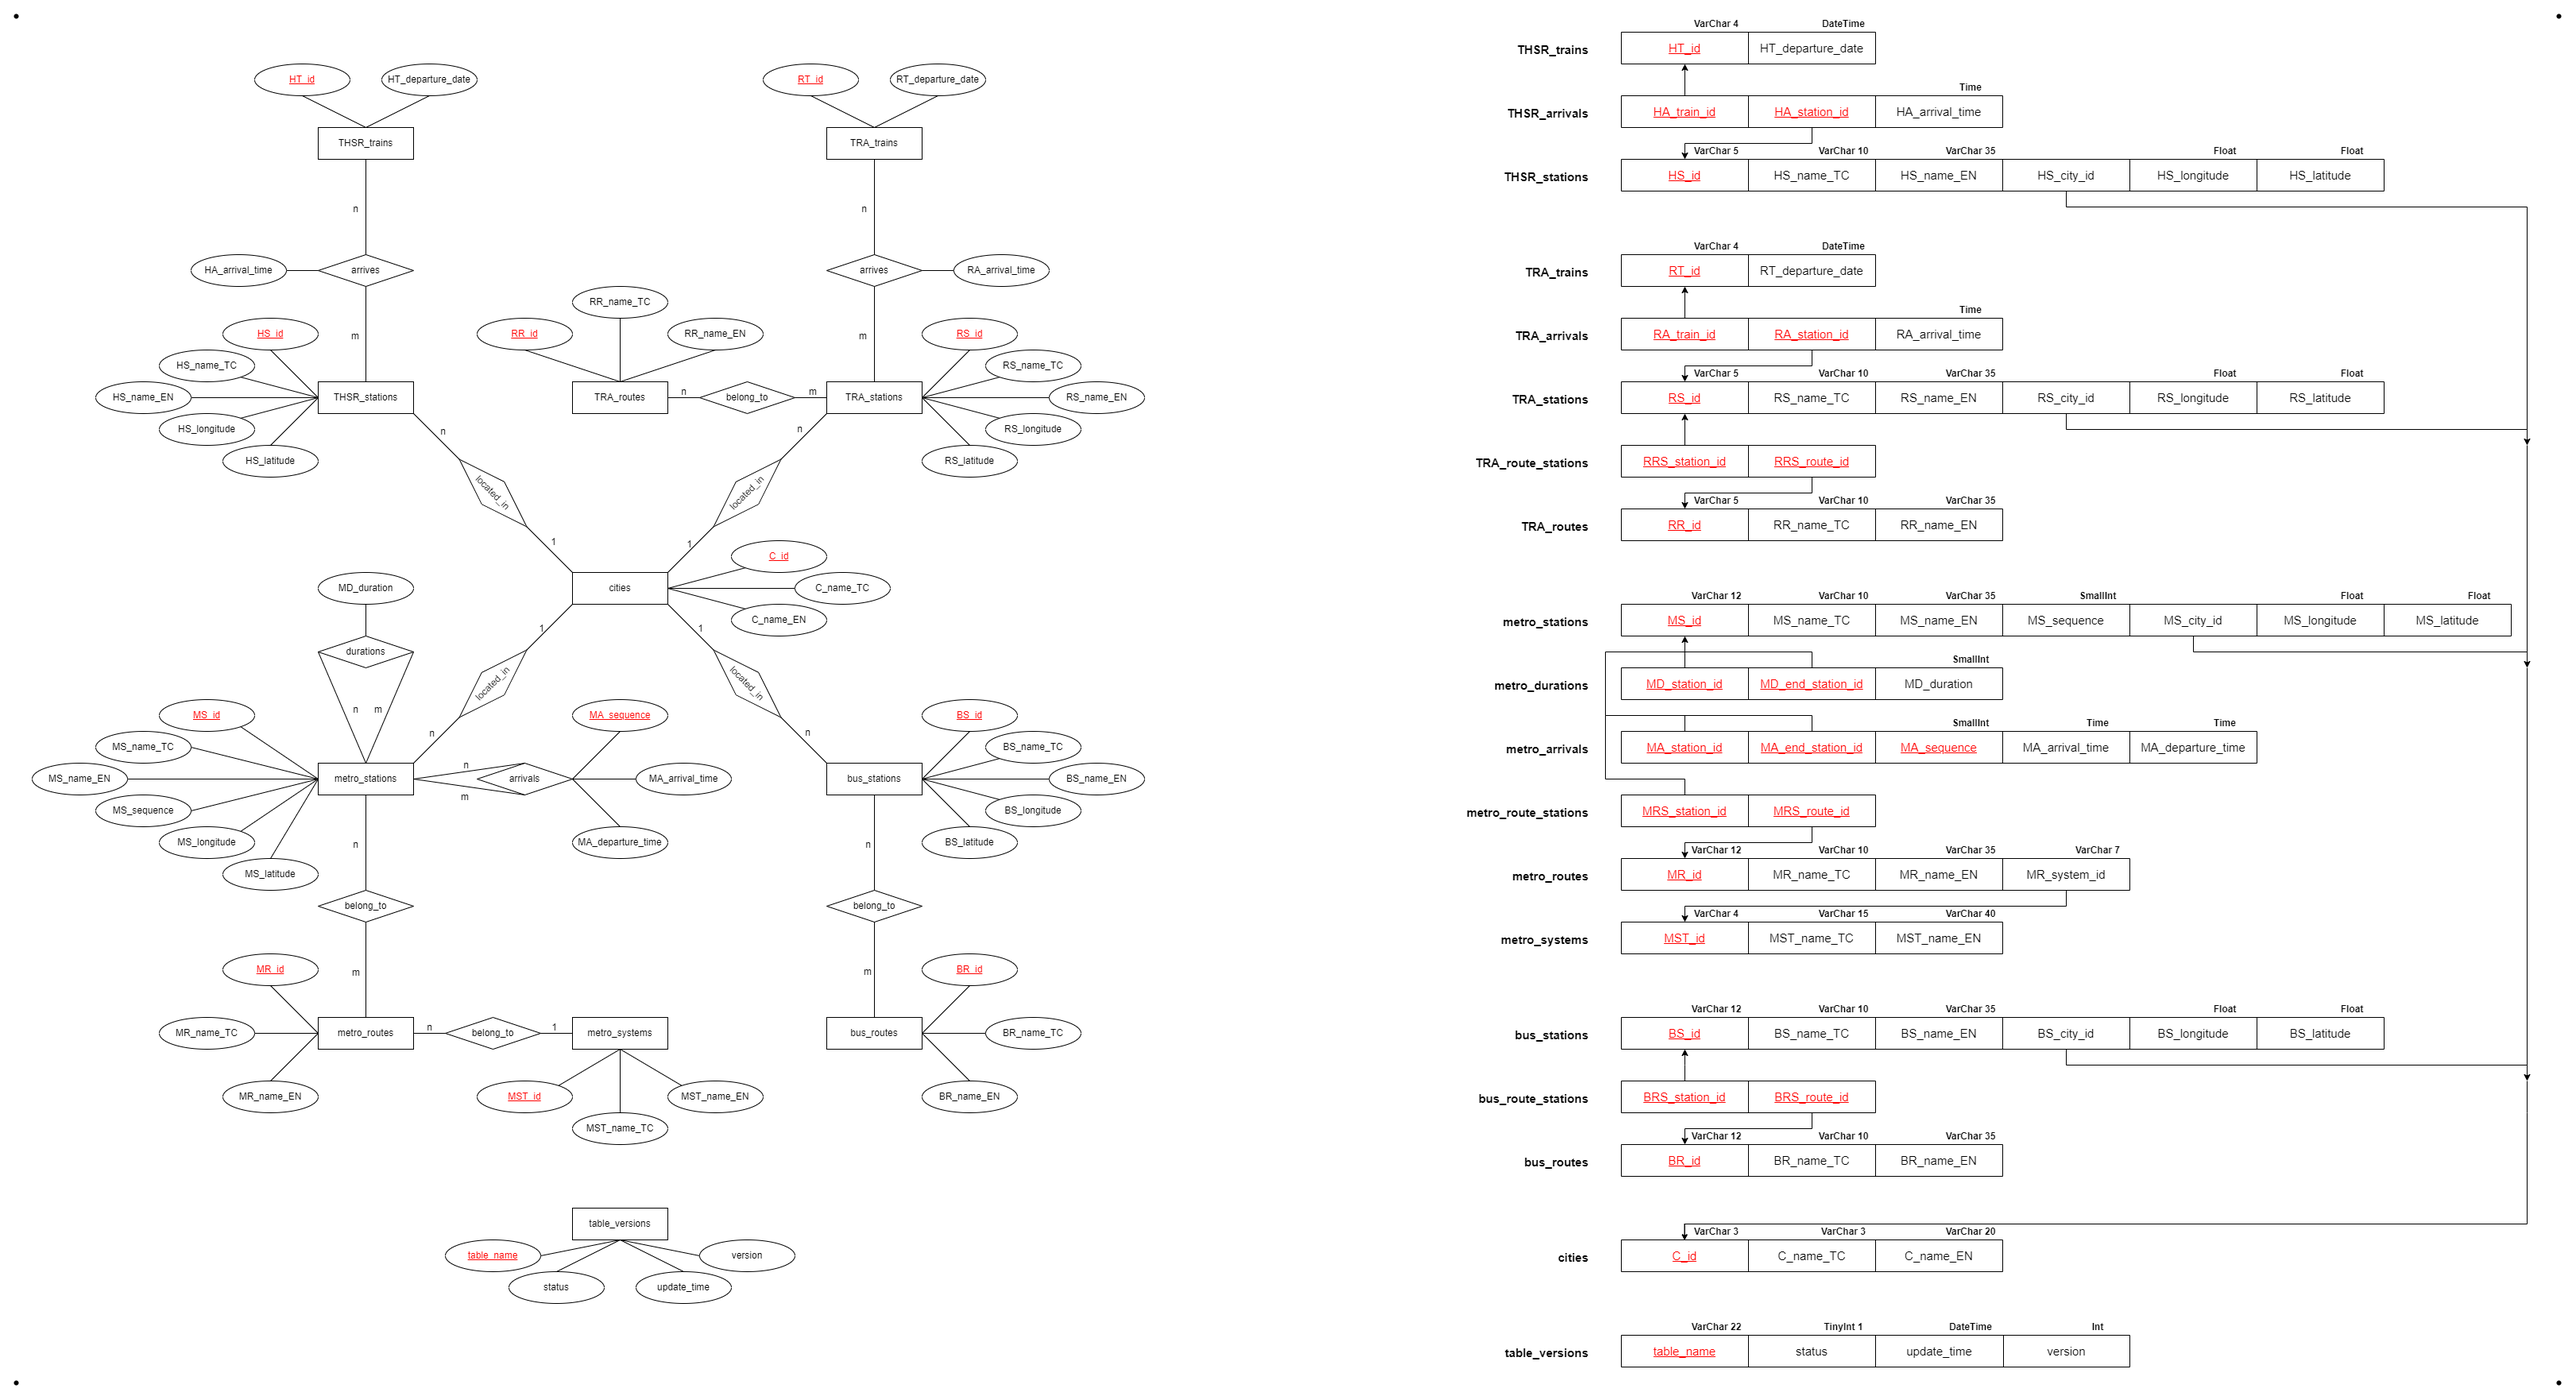
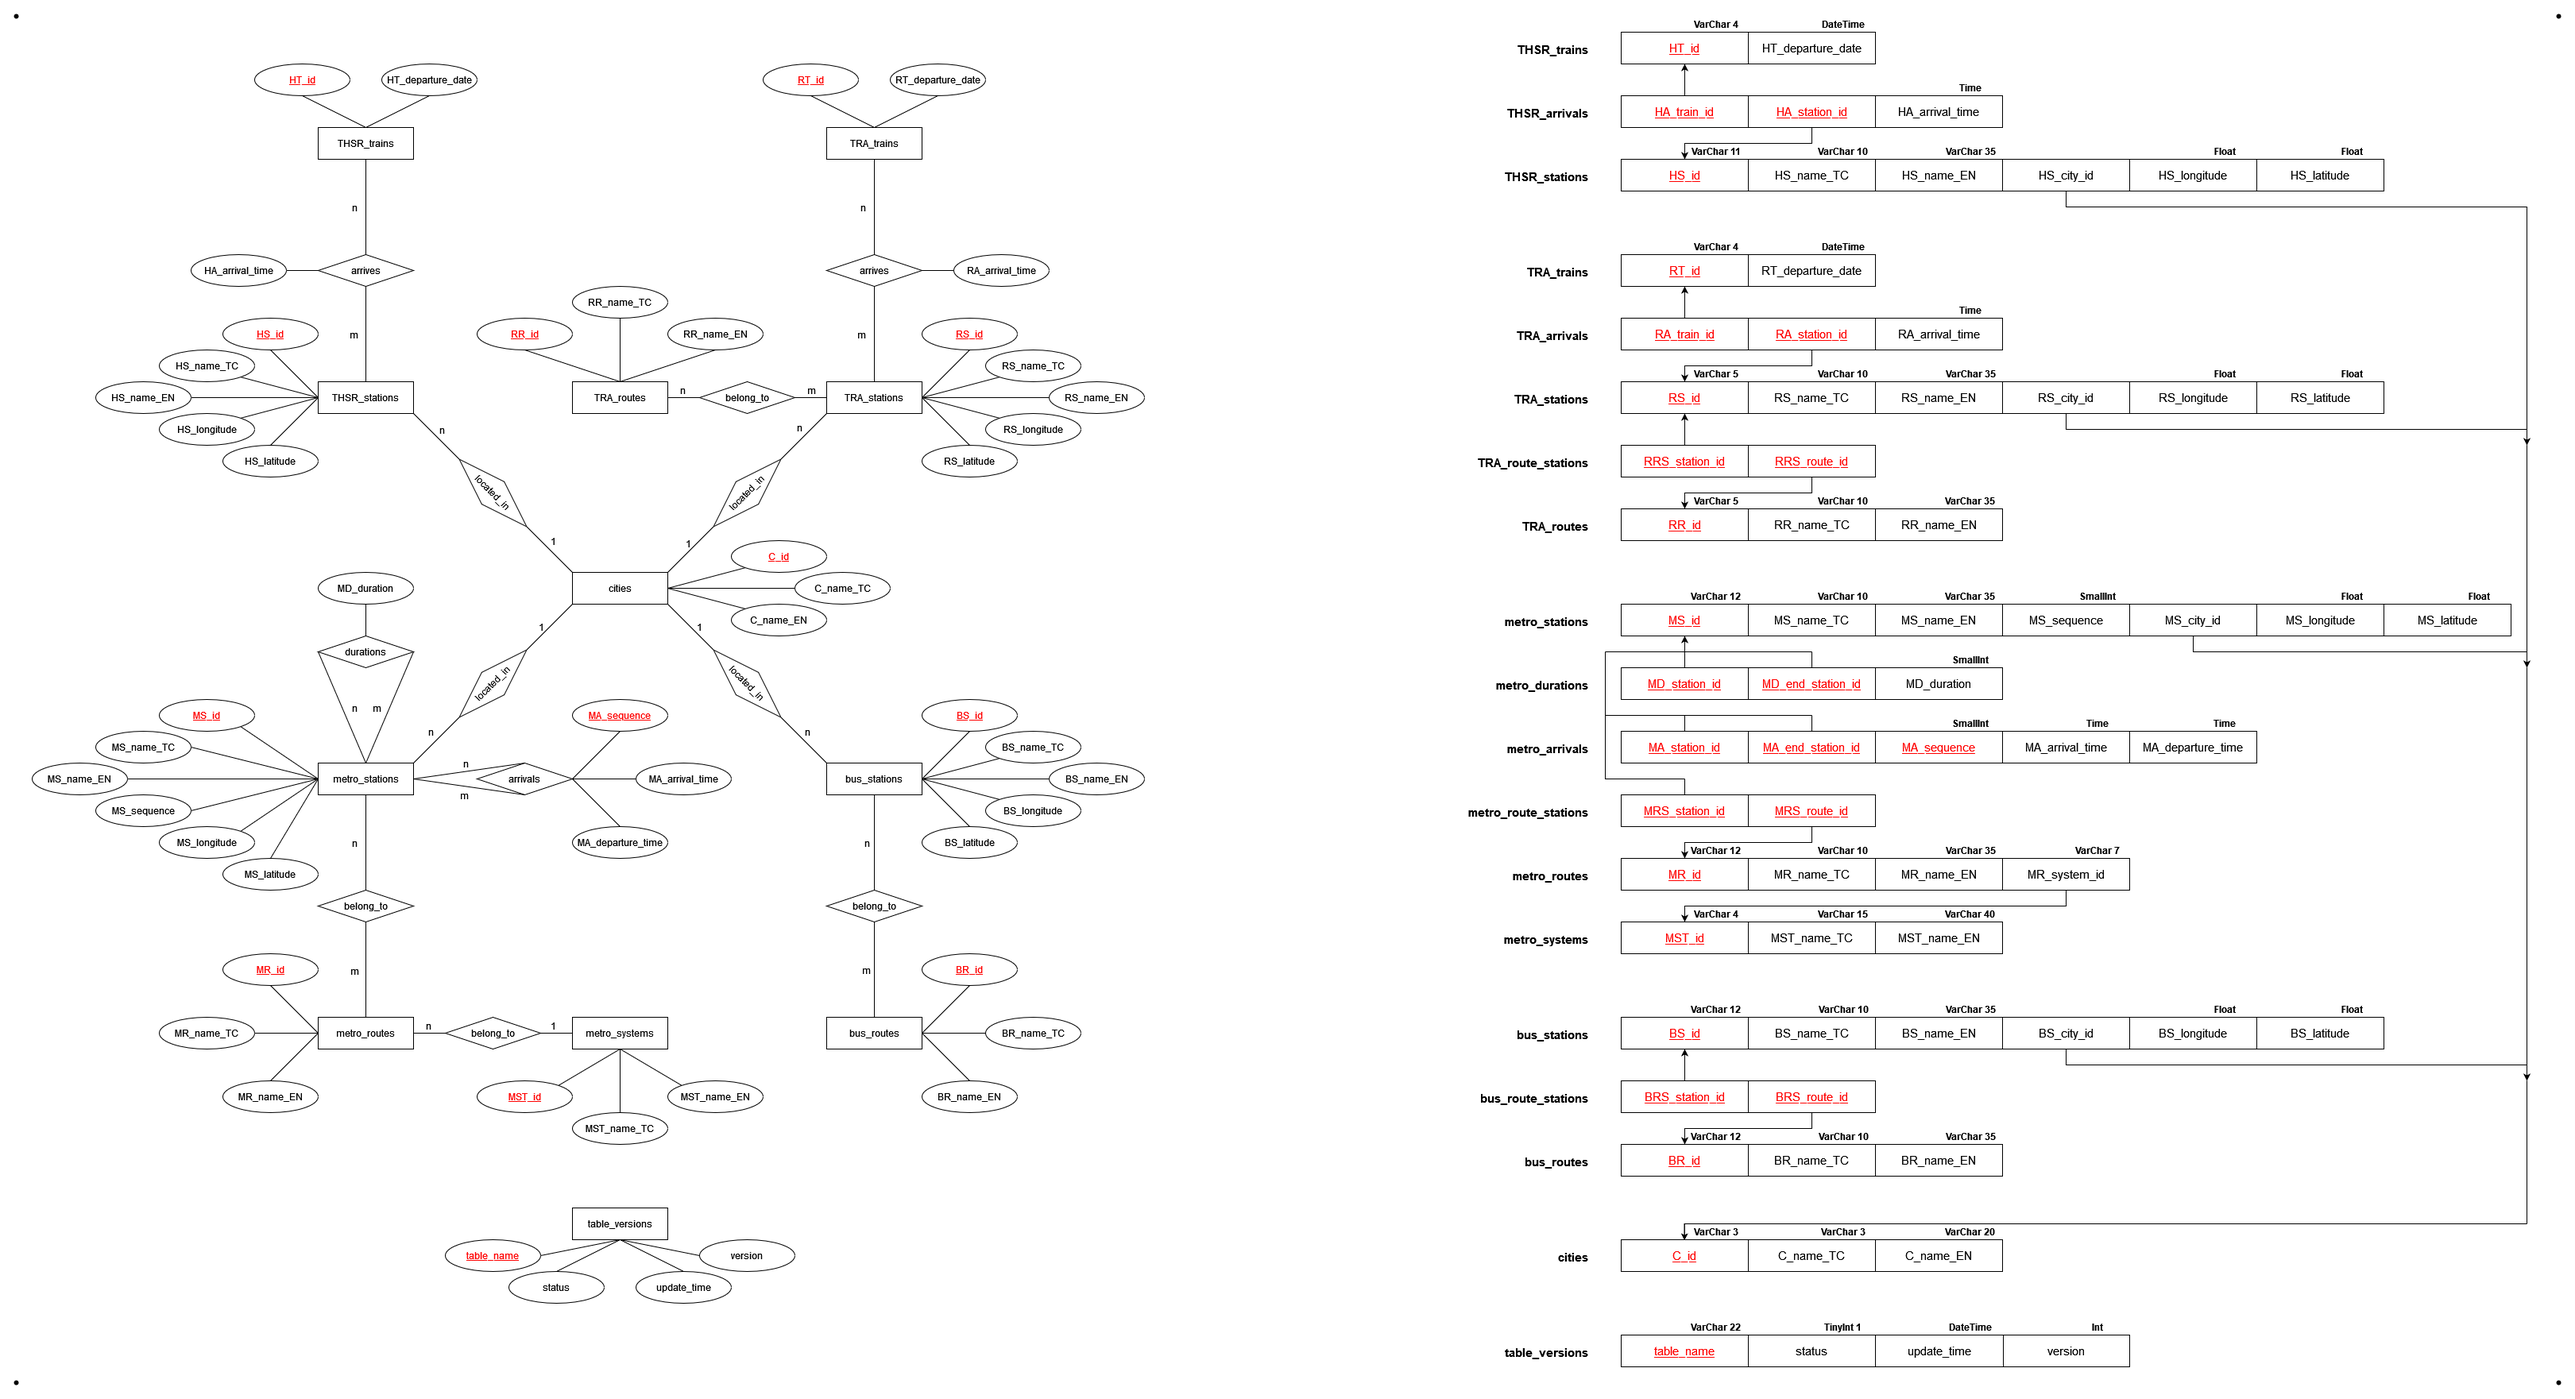
已在 Migration 及 ERM 修正 HS_id 的長度為 11。

diff --git a/app/Database/Migrations/2022-09-09-123929_RelengthHSID.php b/app/Database/Migrations/2022-09-09-123929_RelengthHSID.php
@@ -1,0 +1,33 @@
+<?php
+
+namespace App\Database\Migrations;
+
+use CodeIgniter\Database\Migration;
+
+class RelengthHSID extends Migration
+{
+    /**
+     * 將 THSR_stations 資料表內 HS_id 的長度修正為 11
+     */
+    public function up()
+    {
+        $field = [
+            "HS_id" => [
+                "type" => "VARCHAR",
+                "constraint" => 11
+            ]
+        ];
+        $this->forge->modifyColumn("THSR_stations", $field);
+    }
+
+    public function down()
+    {
+        $field = [
+            "HS_id" => [
+                "type" => "VARCHAR",
+                "constraint" => 4
+            ]
+        ];
+        $this->forge->modifyColumn("THSR_stations", $field);
+    }
+}
